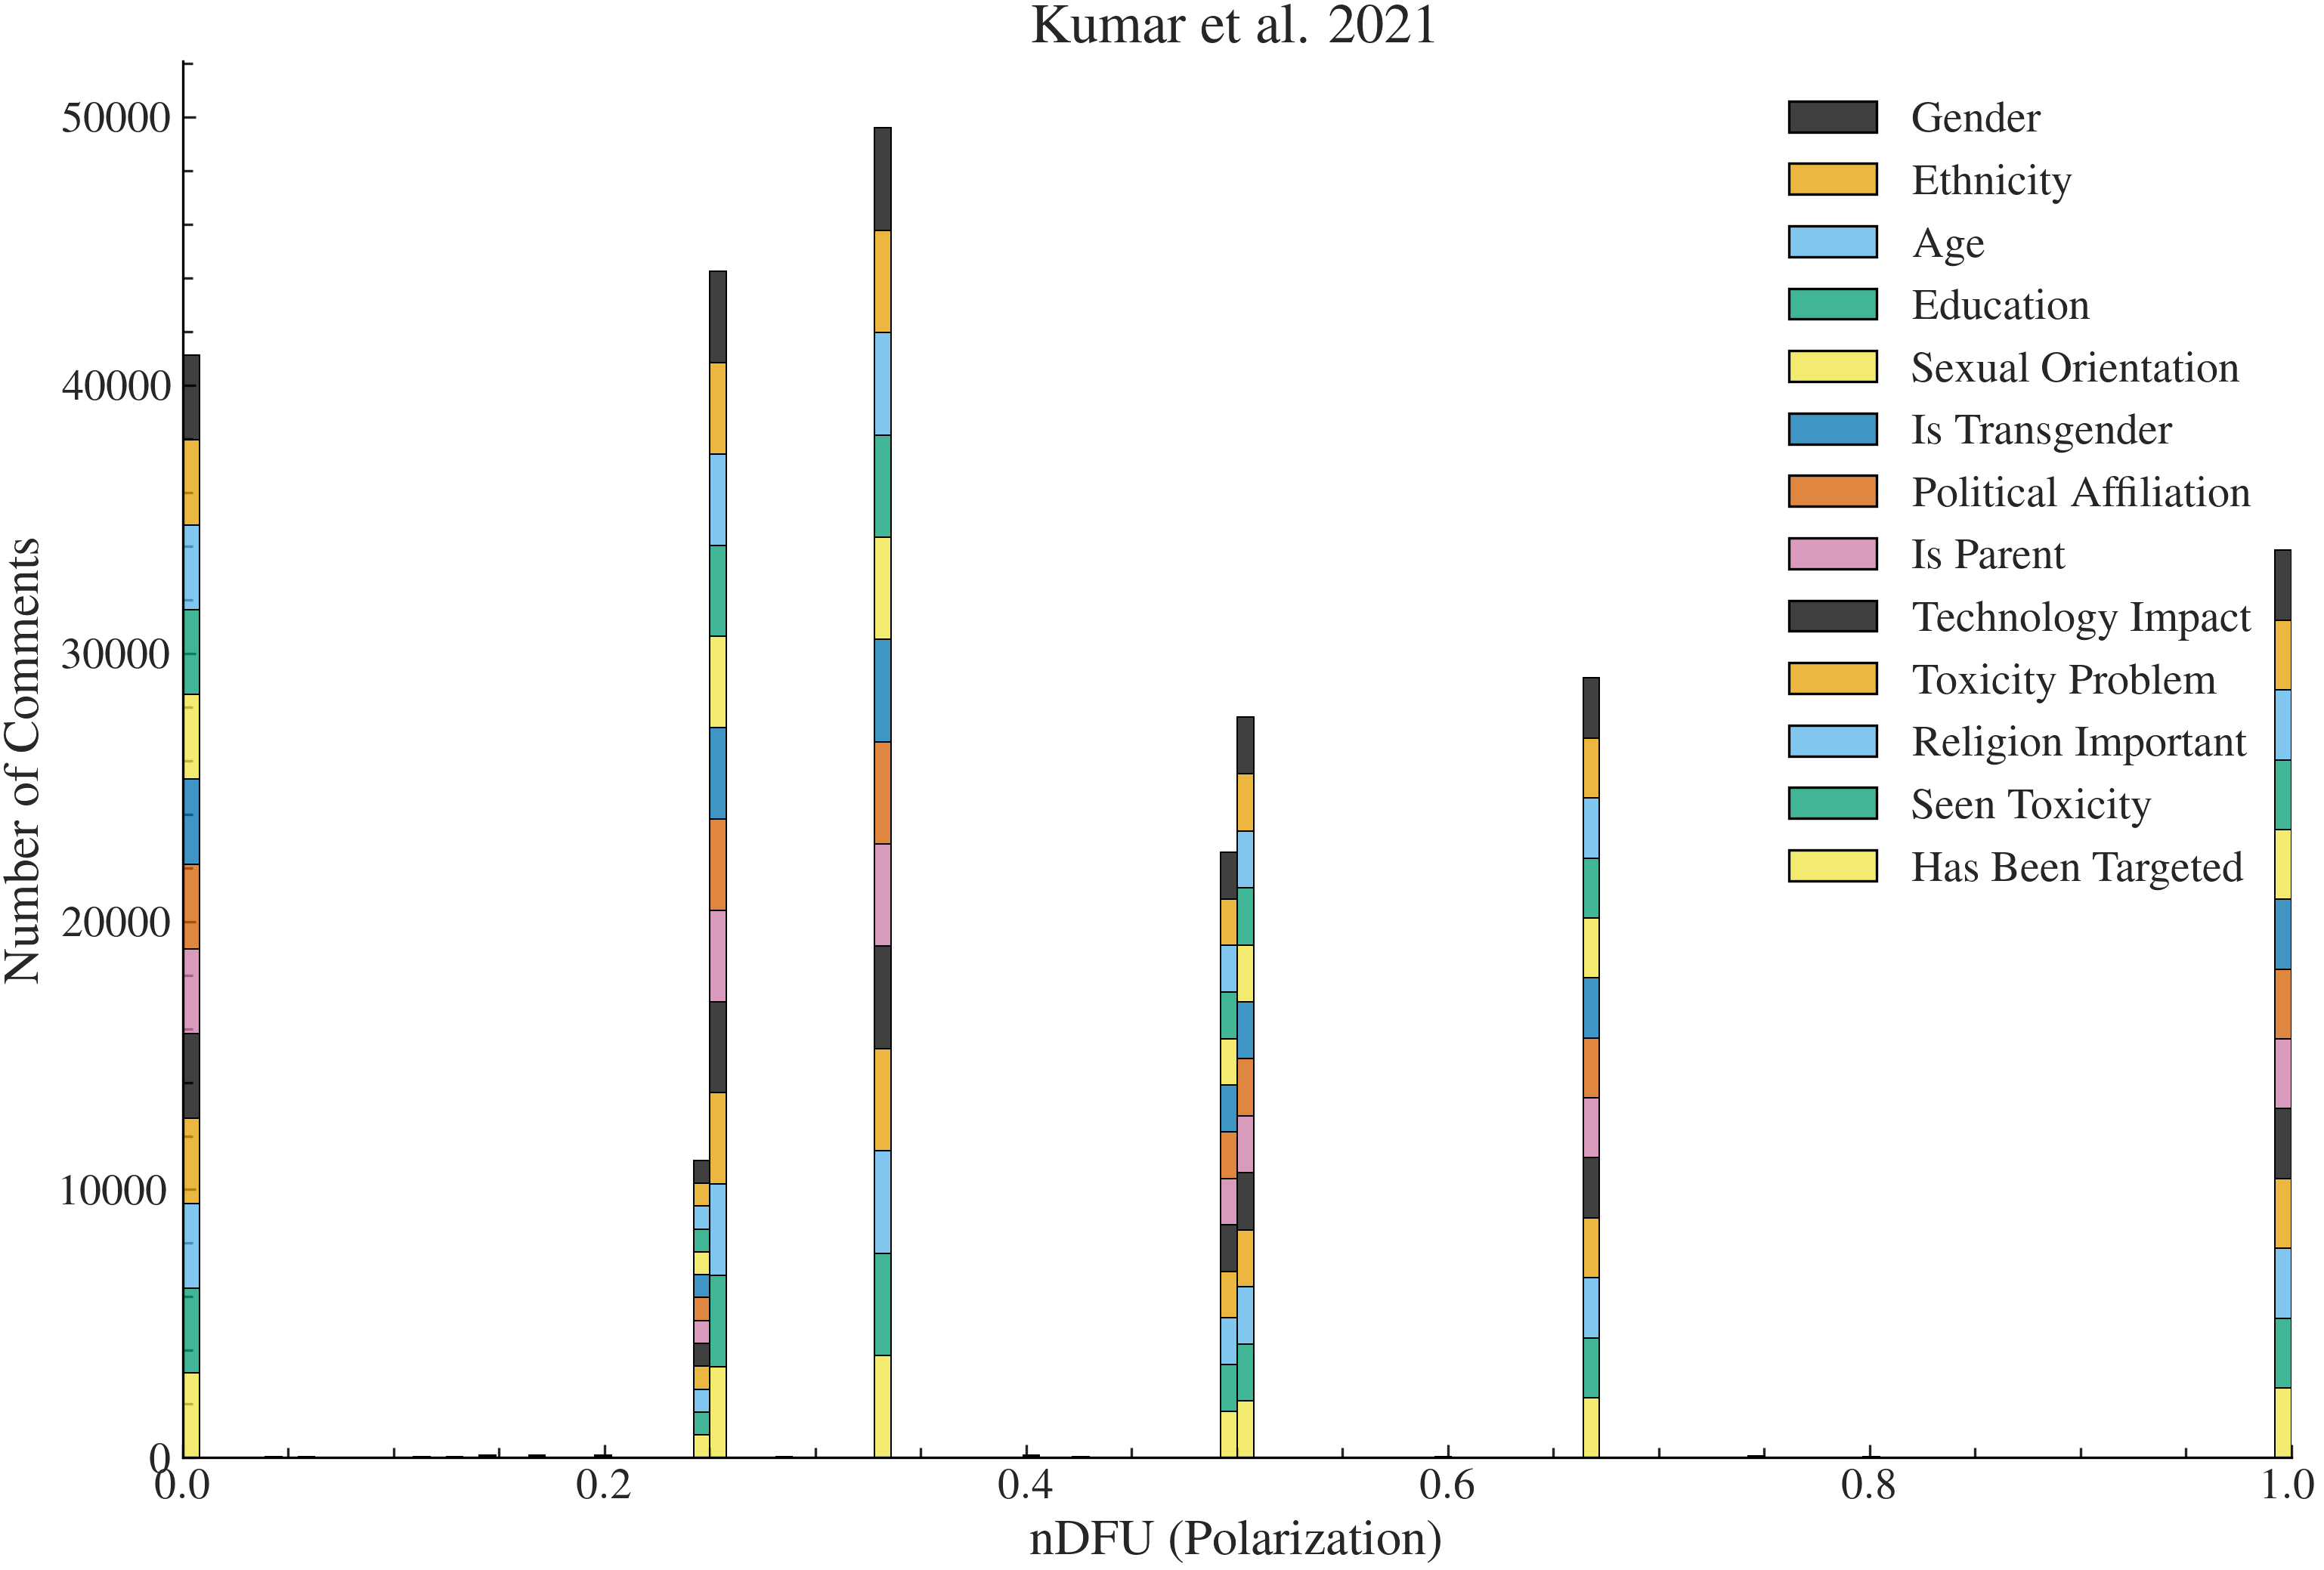
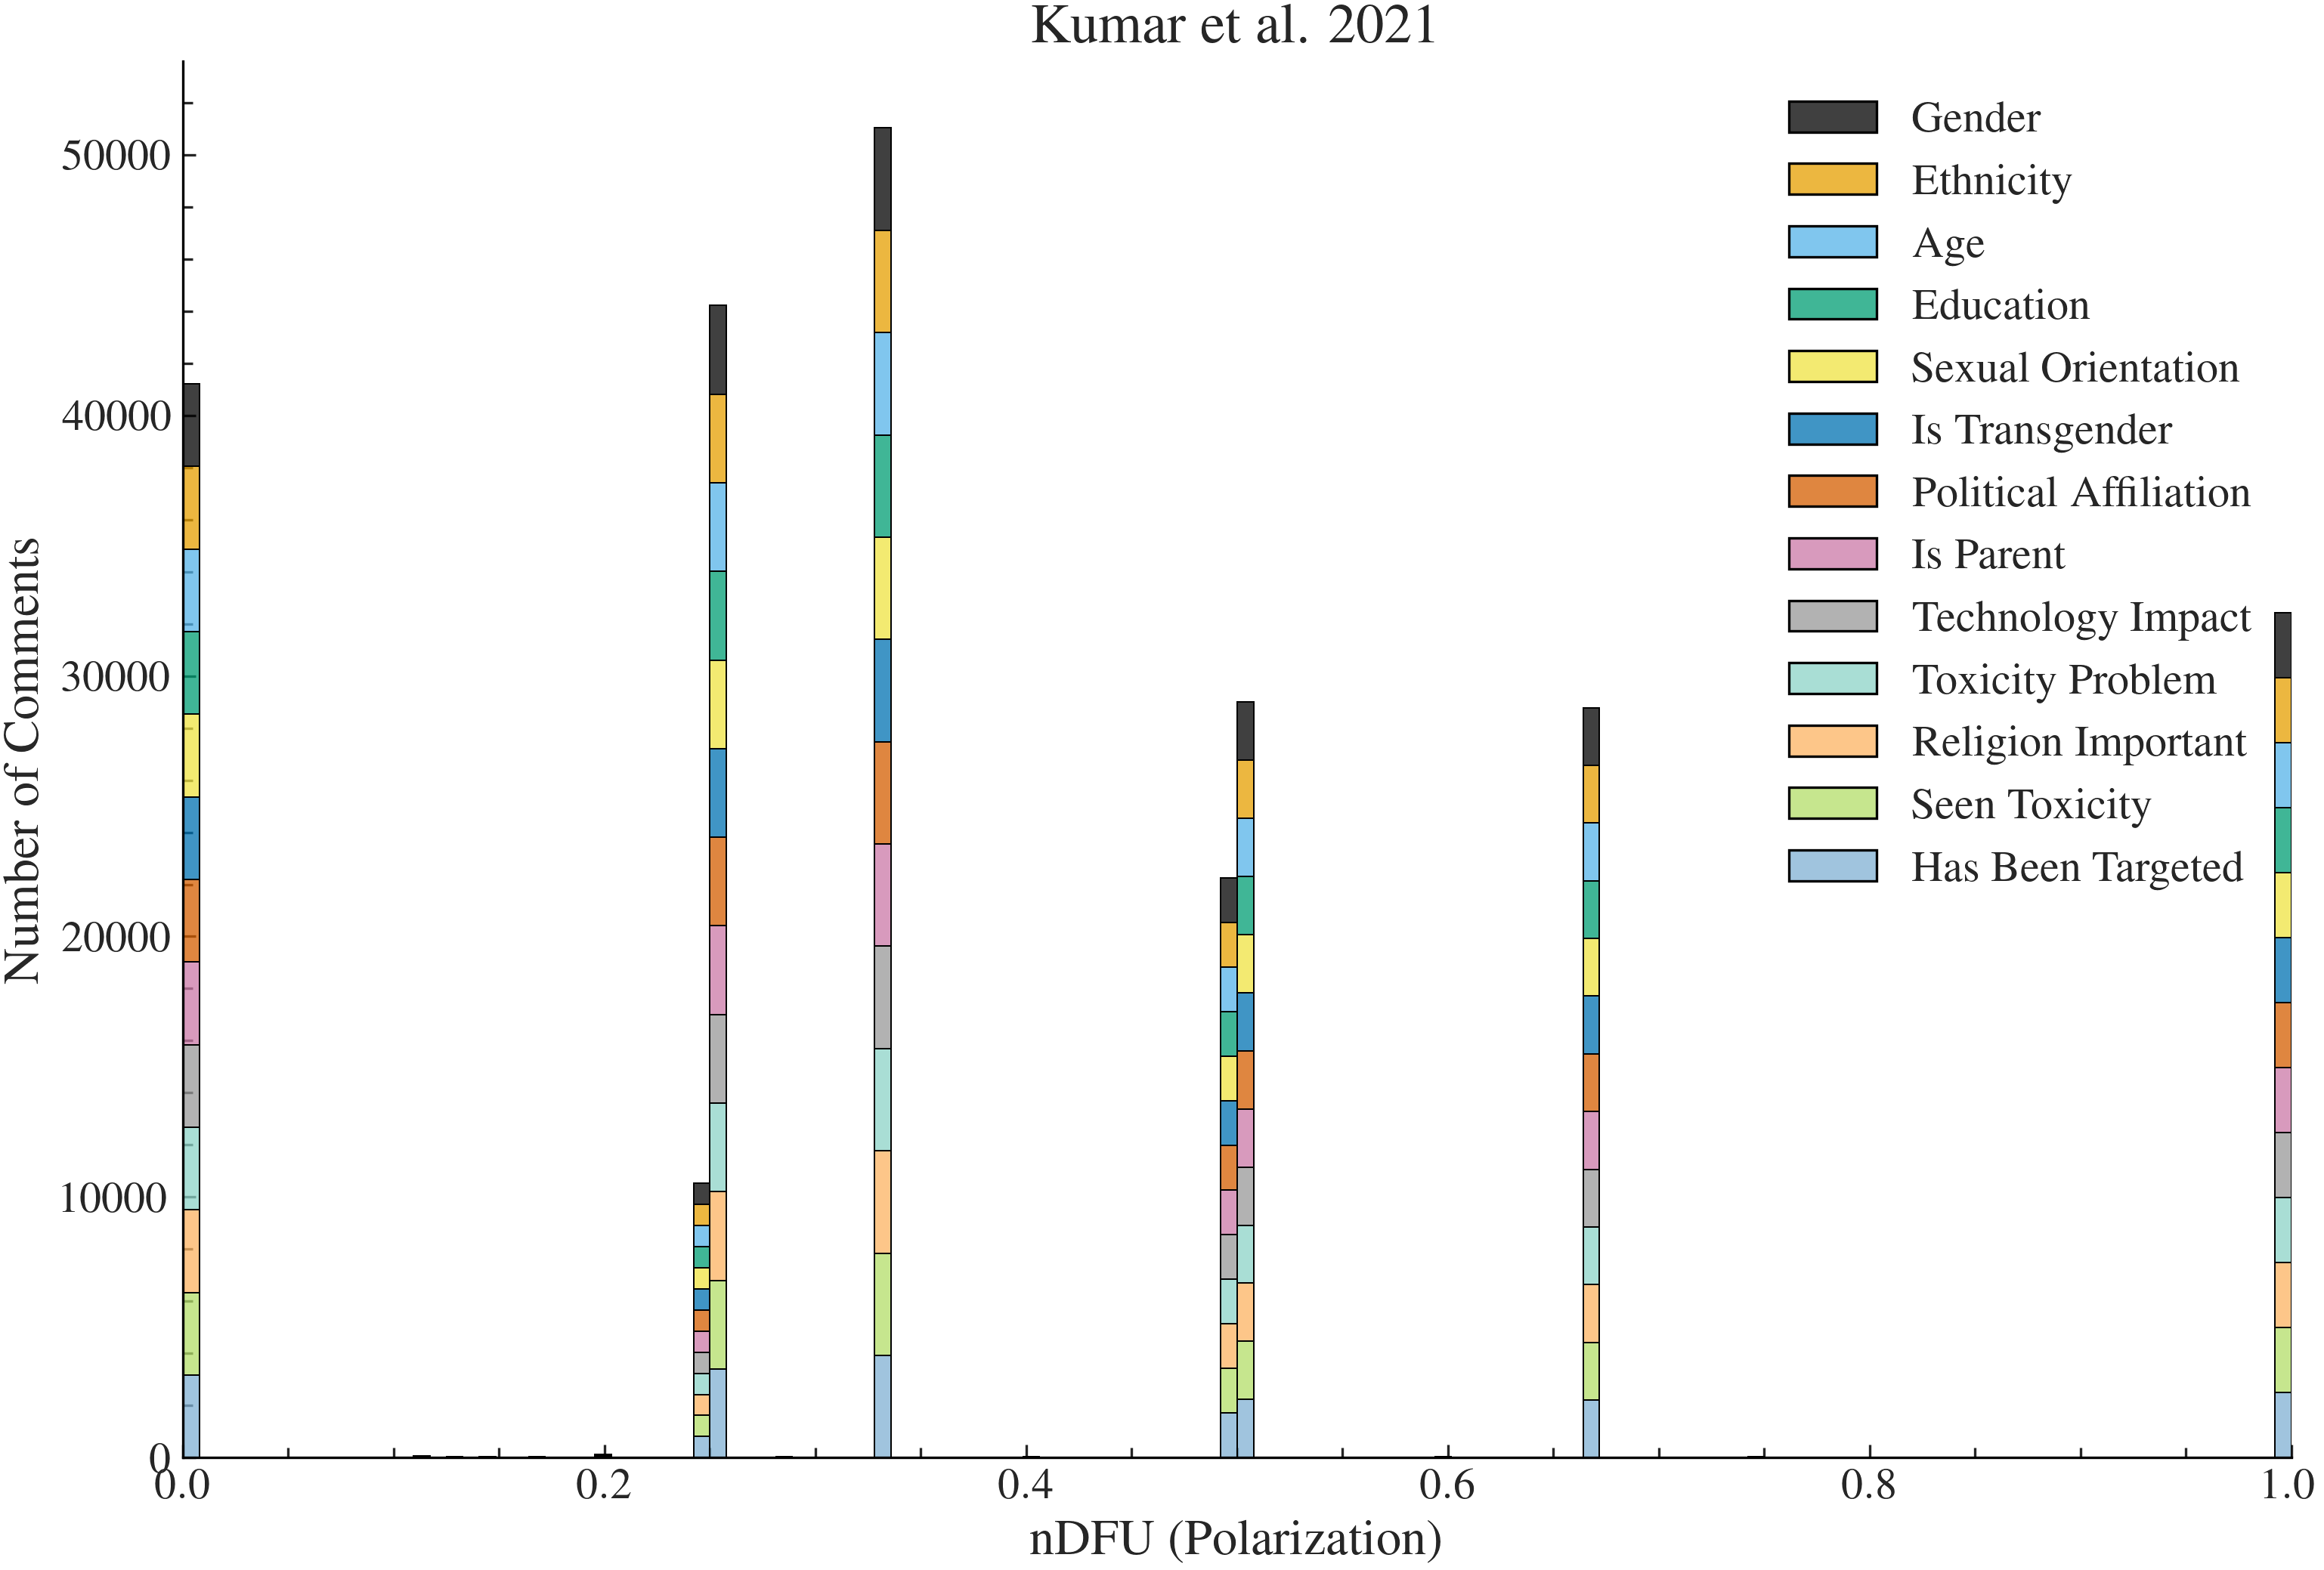
fix color cycling in kumar by adding more palette values

diff --git a/src/tasks/graphs.py b/src/tasks/graphs.py
@@ -17,6 +17,14 @@ COLORBLIND_PALETTE = [
     "#0072B2",  # blue
     "#D55E00",  # vermillion
     "#CC79A7",  # reddish purple
+    "#999999",  # mid gray (neutral, high legibility)
+    "#8DD3C7",  # light teal (tone-safe extension)
+    "#FDB462",  # light orange (paired but distinct in luminance)
+    "#B3DE69",  # light yellow-green (safe vs. green due to brightness)
+    "#80B1D3",  # soft blue (lightened blue variant)
+    "#FB8072",  # soft coral (distinct from vermillion)
+    "#CAB2D6",  # lavender (low-saturation purple)
+    "#BC80BD",  # plum (dark purple contrast partner)
 ]
 
 